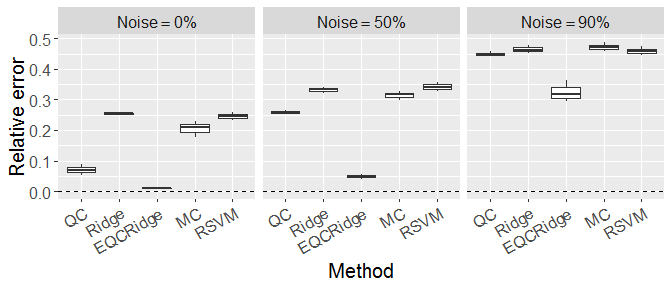
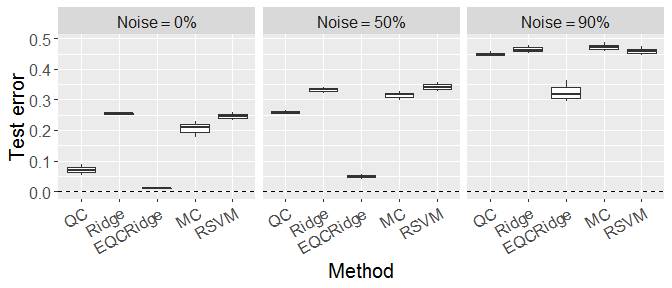
initial

Changed region(s): [[0.0, 0.1875, 0.0625, 0.625]]

diff --git a/vignettes/minimal_simulation_study.html b/vignettes/minimal_simulation_study.html
@@ -307,16 +307,14 @@ code > span.fu { color: #900; font-weight: bold; }  code > span.er { color: #a61
 
 
 
-<p>This vignette introduces the functionality of the <code>eqc</code> package for fitting the ensemble quantile classifier (EQC). As an example, a simulation study is done to compare the performance with regard to the relative error towards the quantile-based classifier (QC) of the following methods.</p>
+<p>This vignette introduces the functionality of the <code>eqc</code> package for fitting the ensemble quantile classifier (EQC). As an example, a simulation study is done to compare the performance with regard to the test errors of the quantile-based classifier (QC) and the following methods.</p>
 <ul>
 <li>Ridge: Ridge logistic regression <span class="citation">(Park and Hastie 2007)</span>;</li>
 <li>EQC/Ridge: EQC fitted with the Ridge-type binomial loss;</li>
 <li>MC: Median-based classifier <span class="citation">(Hall, Titterington, and Xue 2009)</span>.</li>
 <li>RSVM: SVM with radial kernel <span class="citation">(Cortes and Vapnik 1995)</span>.</li>
 </ul>
-<p>The relative error is defined, <span class="math display">\[
-\frac{\text{Err}_c-\text{Err}_\text{quantile}}{(\text{Err}_c+\text{Err}_\text{quantile})/2},
-\]</span> where <span class="math inline">\(\text{Err}_c\)</span> and <span class="math inline">\(\text{Err}_\text{quantile}\)</span> are respectively the test error rate of the compared classifier and the quantile-based classifier. Tuning parameters were selected by minimizing the 5-fold cross validation errors, where the tuning set of <span class="math inline">\(\theta\)</span> is <span class="math inline">\(\{0.02,0.04,\dotsc,0.98\}\)</span>,and the tuning set of the penalty parameter of the ridge regression is <span class="math inline">\(\{3,1,0.1,0.01,0.001,0.0001\}\)</span>.</p>
+<p>Tuning parameters were selected by minimizing the 5-fold cross validation errors, where the tuning set of <span class="math inline">\(\theta\)</span> is <span class="math inline">\(\{0.02,0.04,\dotsc,0.98\}\)</span>,and the tuning set of the penalty parameter of the ridge regression is <span class="math inline">\(\{3,1,0.1,0.01,0.001,0.0001\}\)</span>.</p>
 <div class="sourceCode" id="cb1"><pre class="sourceCode r"><code class="sourceCode r"><a class="sourceLine" id="cb1-1" title="1"><span class="kw">library</span>(glmnet)</a>
 <a class="sourceLine" id="cb1-2" title="2"><span class="kw">library</span>(e1071)</a>
 <a class="sourceLine" id="cb1-3" title="3"><span class="kw">library</span>(tidyr)</a>
@@ -481,21 +479,16 @@ code > span.fu { color: #900; font-weight: bold; }  code > span.er { color: #a61
 </div>
 <div id="visualization" class="section level2">
 <h2>Visualization</h2>
-<div class="sourceCode" id="cb9"><pre class="sourceCode r"><code class="sourceCode r"><a class="sourceLine" id="cb9-1" title="1"><span class="kw">library</span>(ggplot2)</a></code></pre></div>
-<pre><code>## 
-## 载入程辑包：&#39;ggplot2&#39;</code></pre>
-<pre><code>## The following object is masked from &#39;package:NLP&#39;:
-## 
-##     annotate</code></pre>
-<div class="sourceCode" id="cb12"><pre class="sourceCode r"><code class="sourceCode r"><a class="sourceLine" id="cb12-1" title="1"><span class="kw">ggplot</span>(testErr_reformat, <span class="dt">mapping=</span><span class="kw">aes</span>(<span class="dt">x=</span>method, <span class="dt">y=</span>testError)) <span class="op">+</span></a>
-<a class="sourceLine" id="cb12-2" title="2"><span class="st">  </span><span class="kw">geom_boxplot</span>(<span class="dt">outlier.alpha =</span> <span class="fl">0.5</span>) <span class="op">+</span></a>
-<a class="sourceLine" id="cb12-3" title="3"><span class="st">  </span><span class="kw">geom_hline</span>(<span class="dt">yintercept =</span> <span class="dv">0</span>,<span class="dt">linetype=</span><span class="st">&quot;dashed&quot;</span>) <span class="op">+</span></a>
-<a class="sourceLine" id="cb12-4" title="4"><span class="st">  </span><span class="kw">labs</span>(<span class="dt">x=</span><span class="st">&quot;Method&quot;</span>,<span class="dt">y=</span><span class="st">&quot;Relative error&quot;</span>)<span class="op">+</span></a>
-<a class="sourceLine" id="cb12-5" title="5"><span class="st">  </span><span class="kw">theme</span>(<span class="dt">legend.position=</span><span class="st">&quot;top&quot;</span>,<span class="dt">text =</span> <span class="kw">element_text</span>(<span class="dt">size=</span><span class="dv">15</span>) )<span class="op">+</span></a>
-<a class="sourceLine" id="cb12-6" title="6"><span class="st">  </span><span class="kw">theme</span>(<span class="dt">axis.text.x =</span> <span class="kw">element_text</span>(<span class="dt">angle =</span> <span class="dv">30</span>, <span class="dt">hjust =</span> <span class="dv">1</span>)) <span class="op">+</span></a>
-<a class="sourceLine" id="cb12-7" title="7"><span class="st">  </span><span class="kw">facet_grid</span>(<span class="op">~</span>percentNoise, <span class="dt">labeller =</span> label_parsed)</a></code></pre></div>
+<div class="sourceCode" id="cb9"><pre class="sourceCode r"><code class="sourceCode r"><a class="sourceLine" id="cb9-1" title="1"><span class="kw">library</span>(ggplot2)</a>
+<a class="sourceLine" id="cb9-2" title="2"><span class="kw">ggplot</span>(testErr_reformat, <span class="dt">mapping=</span><span class="kw">aes</span>(<span class="dt">x=</span>method, <span class="dt">y=</span>testError)) <span class="op">+</span></a>
+<a class="sourceLine" id="cb9-3" title="3"><span class="st">  </span><span class="kw">geom_boxplot</span>(<span class="dt">outlier.alpha =</span> <span class="fl">0.5</span>) <span class="op">+</span></a>
+<a class="sourceLine" id="cb9-4" title="4"><span class="st">  </span><span class="kw">geom_hline</span>(<span class="dt">yintercept =</span> <span class="dv">0</span>,<span class="dt">linetype=</span><span class="st">&quot;dashed&quot;</span>) <span class="op">+</span></a>
+<a class="sourceLine" id="cb9-5" title="5"><span class="st">  </span><span class="kw">labs</span>(<span class="dt">x=</span><span class="st">&quot;Method&quot;</span>,<span class="dt">y=</span><span class="st">&quot;Test error&quot;</span>)<span class="op">+</span></a>
+<a class="sourceLine" id="cb9-6" title="6"><span class="st">  </span><span class="kw">theme</span>(<span class="dt">legend.position=</span><span class="st">&quot;top&quot;</span>,<span class="dt">text =</span> <span class="kw">element_text</span>(<span class="dt">size=</span><span class="dv">15</span>) )<span class="op">+</span></a>
+<a class="sourceLine" id="cb9-7" title="7"><span class="st">  </span><span class="kw">theme</span>(<span class="dt">axis.text.x =</span> <span class="kw">element_text</span>(<span class="dt">angle =</span> <span class="dv">30</span>, <span class="dt">hjust =</span> <span class="dv">1</span>)) <span class="op">+</span></a>
+<a class="sourceLine" id="cb9-8" title="8"><span class="st">  </span><span class="kw">facet_grid</span>(<span class="op">~</span>percentNoise, <span class="dt">labeller =</span> label_parsed)</a></code></pre></div>
 <div class="figure">
[2 lines of base64/hex data omitted]
 <p class="caption">Boxplots of Test Errors of each Method</p>
 </div>
 </div>

diff --git a/README.md b/README.md
@@ -16,6 +16,10 @@ To install this package, run
 ``` r
 if (!require("devtools")) install.packages("devtools")
 devtools::install_github("CliffordLai/eqc")
+
+# To include the vignette, one can use the following 
+# but it takes much more time to install the package
+devtools::install_github("CliffordLai/eqc",build_vignettes = TRUE)
 ```
 
 Example
